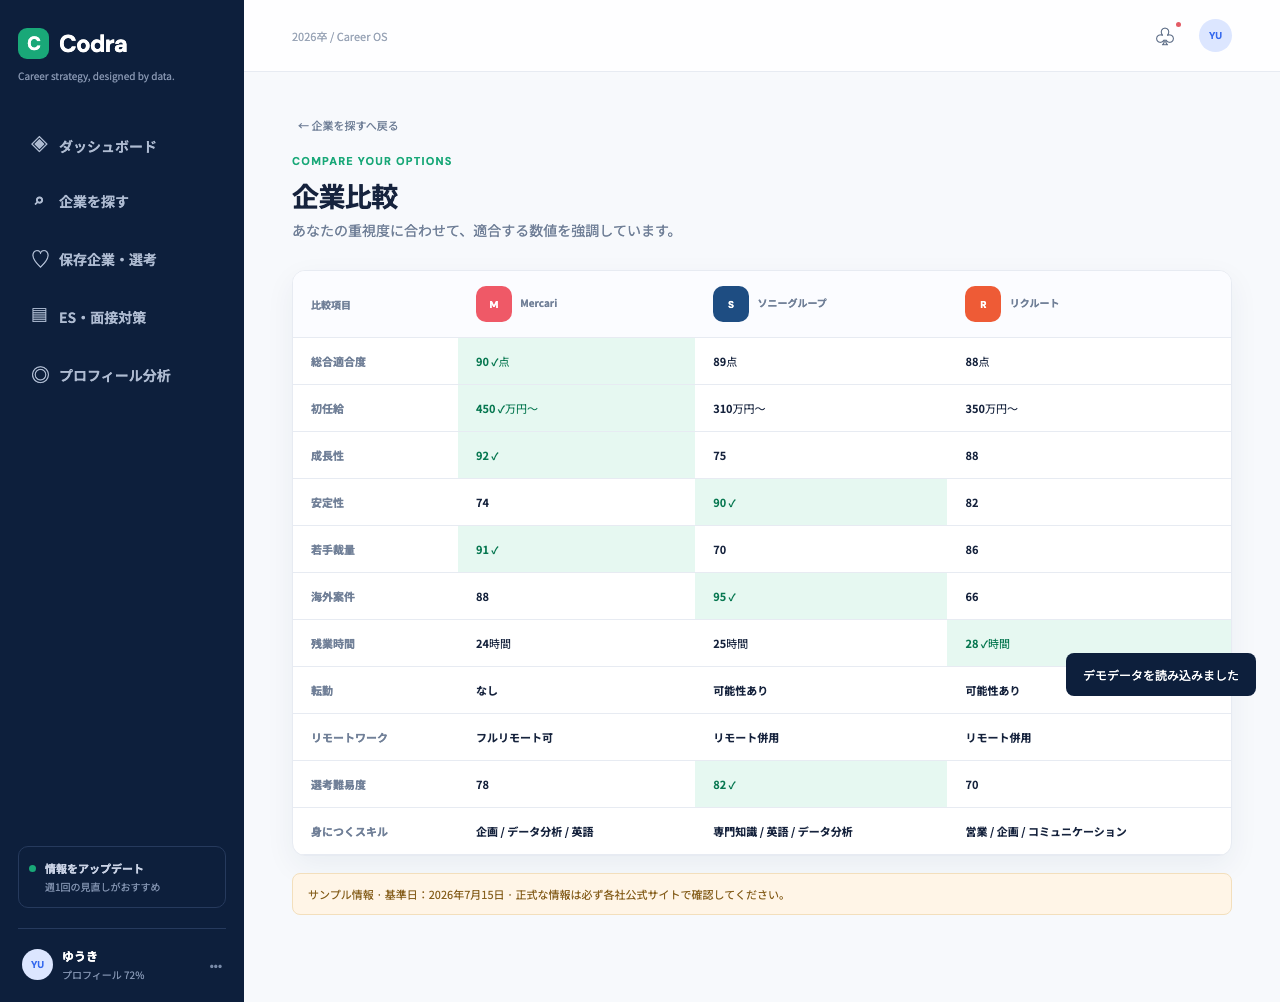
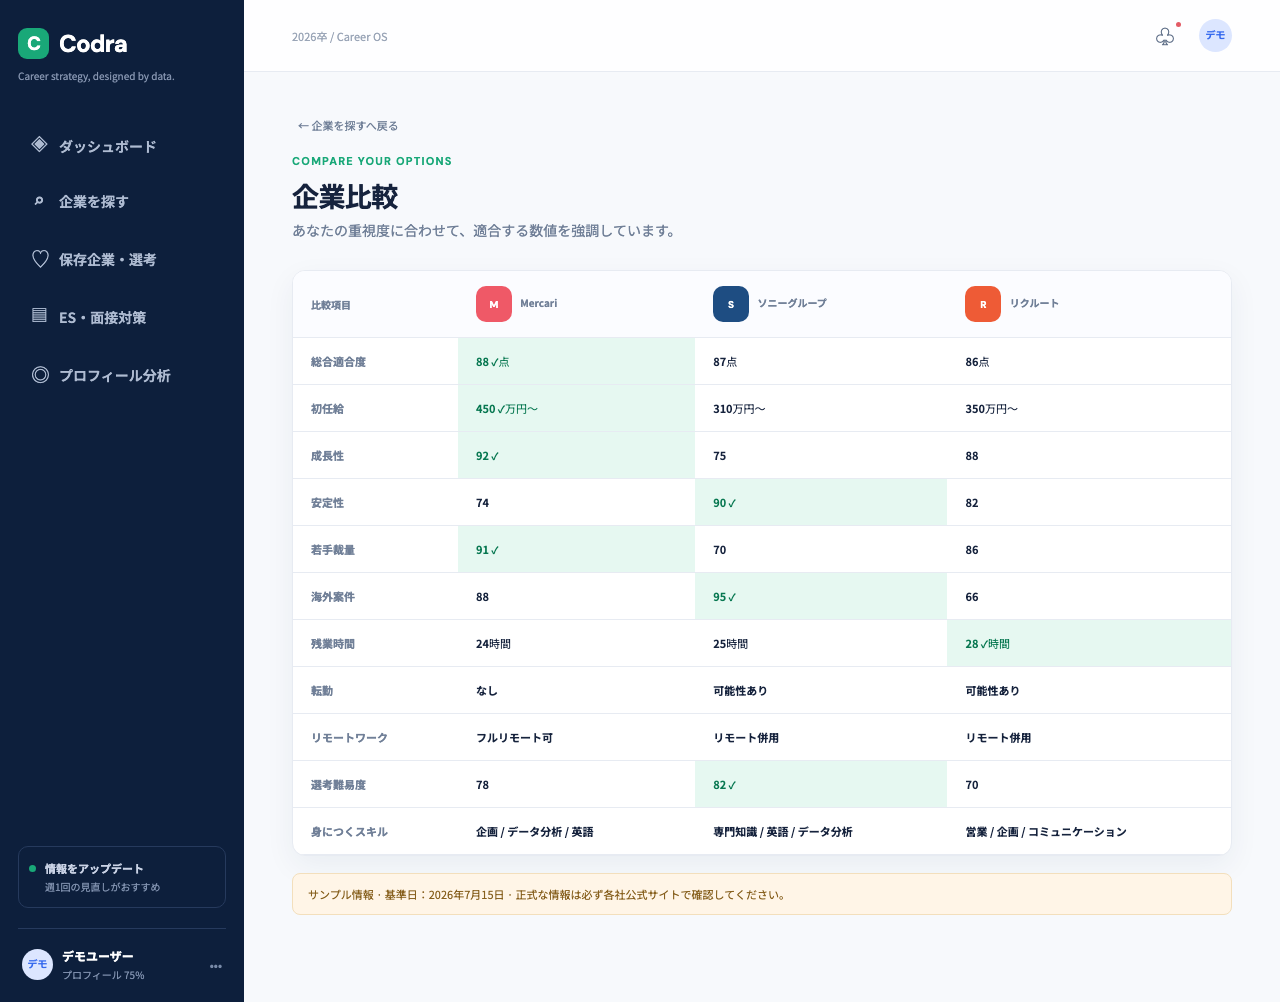
Fix mobile navigation and interactive controls

Changed region(s): [[0.8125, 0.6497, 1.0, 0.7116], [0.0625, 0.9281, 0.0938, 0.9591]]

diff --git a/navigation.js b/navigation.js
@@ -2,37 +2,112 @@
   const sidebar = document.querySelector('#main-sidebar');
   const toggle = document.querySelector('.mobile-menu');
   const overlay = document.querySelector('#sidebar-overlay');
+  const notificationToggle = document.querySelector('.notification-toggle');
+  const notificationPanel = document.querySelector('#notification-panel');
   if (!sidebar || !toggle || !overlay) return;
 
-  const setOpen = open => {
-    sidebar.classList.toggle('open', open);
-    overlay.classList.toggle('open', open);
-    toggle.setAttribute('aria-expanded', String(open));
-    toggle.setAttribute('aria-label', open ? 'メニューを閉じる' : 'メニューを開く');
-    sidebar.setAttribute('aria-hidden', String(!open && window.matchMedia('(max-width: 650px)').matches));
-    overlay.setAttribute('aria-hidden', String(!open));
-    document.body.classList.toggle('menu-open', open);
+  const isMobile = () => window.matchMedia('(max-width: 900px)').matches;
+
+  const setMenuOpen = open => {
+    const next = Boolean(open);
+    sidebar.classList.toggle('open', next);
+    overlay.classList.toggle('open', next);
+    toggle.setAttribute('aria-expanded', String(next));
+    toggle.setAttribute('aria-label', next ? 'メニューを閉じる' : 'メニューを開く');
+    sidebar.setAttribute('aria-hidden', String(isMobile() ? !next : false));
+    overlay.setAttribute('aria-hidden', String(!next));
+    document.body.classList.toggle('menu-open', next);
   };
 
-  // Capture the event before the legacy app.js listener so repeated renders cannot add duplicate toggles.
+  const setNotificationsOpen = open => {
+    if (!notificationToggle || !notificationPanel) return;
+    const next = Boolean(open);
+    notificationPanel.hidden = !next;
+    notificationPanel.classList.toggle('open', next);
+    notificationToggle.setAttribute('aria-expanded', String(next));
+    notificationToggle.setAttribute('aria-label', next ? '通知を閉じる' : '通知を開く');
+  };
+
+  const navigate = view => {
+    if (!view || typeof state === 'undefined' || typeof render !== 'function') return;
+    state.view = view;
+    state.companyId = null;
+    if (view !== 'detail') state.tab = 'overview';
+    render();
+  };
+
+  const updateIdentity = () => {
+    const profile = typeof state !== 'undefined' ? state.profile || {} : {};
+    const name = typeof userName === 'function' ? userName() : String(profile.nickname || profile.name || '').trim() || 'ゲスト';
+    const initials = name === 'ゲスト' ? 'GU' : name.slice(0, 2).toUpperCase();
+    const completionValue = typeof completion === 'function' ? completion() : 0;
+    document.querySelector('#user-display-name')?.replaceChildren(document.createTextNode(name));
+    document.querySelector('#user-profile-completion')?.replaceChildren(document.createTextNode(profile.registered ? `プロフィール ${completionValue}%` : 'プロフィール 未作成'));
+    document.querySelector('#user-mini-avatar')?.replaceChildren(document.createTextNode(initials));
+    document.querySelector('.top-avatar')?.replaceChildren(document.createTextNode(initials));
+  };
+
+  // Keep the stable header control in one place. Capturing prevents legacy
+  // listeners attached during repeated app renders from toggling twice.
   toggle.addEventListener('click', event => {
     event.preventDefault();
     event.stopImmediatePropagation();
-    setOpen(!sidebar.classList.contains('open'));
+    setMenuOpen(!sidebar.classList.contains('open'));
   }, true);
-  overlay.addEventListener('click', () => setOpen(false));
-  sidebar.addEventListener('click', event => {
-    if (event.target.closest('[data-view]')) setOpen(false);
+
+  overlay.addEventListener('click', event => {
+    event.preventDefault();
+    setMenuOpen(false);
   });
-  document.addEventListener('keydown', event => {
-    if (event.key === 'Escape' && sidebar.classList.contains('open')) {
-      setOpen(false);
-      toggle.focus();
+
+  if (notificationToggle) {
+    notificationToggle.addEventListener('click', event => {
+      event.preventDefault();
+      event.stopImmediatePropagation();
+      setNotificationsOpen(notificationPanel.hidden);
+    }, true);
+  }
+
+  // All data-view controls, including those rendered later by app.js, use
+  // the same delegated navigation path and therefore keep working after a
+  // page render.
+  document.addEventListener('click', event => {
+    const control = event.target.closest?.('[data-view]');
+    if (!control || control === toggle) return;
+    if (control.matches('.mobile-menu')) return;
+    event.preventDefault();
+    event.stopImmediatePropagation();
+    navigate(control.dataset.view);
+    if (control.closest('#main-sidebar')) setMenuOpen(false);
+  }, true);
+
+  document.addEventListener('click', event => {
+    if (notificationPanel && !notificationPanel.hidden && !event.target.closest('.notification-panel, .notification-toggle')) {
+      setNotificationsOpen(false);
     }
   });
+
+  document.addEventListener('keydown', event => {
+    if (event.key !== 'Escape') return;
+    if (sidebar.classList.contains('open')) {
+      setMenuOpen(false);
+      toggle.focus();
+    }
+    if (notificationPanel && !notificationPanel.hidden) {
+      setNotificationsOpen(false);
+      notificationToggle?.focus();
+    }
+  });
+
   window.addEventListener('resize', () => {
-    if (!window.matchMedia('(max-width: 650px)').matches) setOpen(false);
+    if (!isMobile()) setMenuOpen(false);
     else sidebar.setAttribute('aria-hidden', String(!sidebar.classList.contains('open')));
   });
-  setOpen(false);
+
+  setMenuOpen(false);
+  setNotificationsOpen(false);
+  updateIdentity();
+  const appRoot = document.querySelector('#app');
+  if (appRoot) new MutationObserver(updateIdentity).observe(appRoot, { childList: true });
+  console.info('[Codra] mobile controls ready', document.querySelector('meta[name="codra-version"]')?.content || 'unknown');
 })();

diff --git a/tests/mobile-controls.spec.js b/tests/mobile-controls.spec.js
@@ -1,0 +1,112 @@
+const { test, expect } = require('@playwright/test');
+
+const viewports = [
+  { name: 'iPhone', width: 390, height: 844 },
+  { name: 'Android', width: 412, height: 915 },
+  { name: 'iPad portrait', width: 768, height: 1024 },
+  { name: 'iPad landscape', width: 1024, height: 768 },
+  { name: 'desktop', width: 1440, height: 900 }
+];
+
+async function openFresh(page, viewport) {
+  await page.setViewportSize(viewport);
+  await page.goto('/');
+  await page.evaluate(() => localStorage.clear());
+  await page.reload();
+  const close = page.locator('.modal-backdrop .modal-close');
+  if (await close.count() && await close.first().isVisible().catch(() => false)) await close.first().click();
+}
+
+test.describe('Codra mobile controls and profile regression', () => {
+  test('menu opens and closes at every supported viewport', async ({ page }) => {
+    for (const viewport of viewports) {
+      await openFresh(page, viewport);
+      const menu = page.getByTestId('mobile-menu');
+      const sidebar = page.locator('#main-sidebar');
+      const overlay = page.getByTestId('sidebar-overlay');
+      if (viewport.width <= 900) {
+        await expect(menu).toBeVisible();
+        await menu.click();
+        await expect(sidebar).toHaveClass(/open/);
+        await expect(menu).toHaveAttribute('aria-expanded', 'true');
+        await expect(overlay).toHaveClass(/open/);
+        await menu.click();
+        await expect(sidebar).not.toHaveClass(/open/);
+        await expect(menu).toHaveAttribute('aria-expanded', 'false');
+        await expect(overlay).not.toHaveClass(/open/);
+        await menu.click();
+        await overlay.click({ position: { x: 350, y: 400 } });
+        await expect(sidebar).not.toHaveClass(/open/);
+        await menu.click();
+        await page.keyboard.press('Escape');
+        await expect(sidebar).not.toHaveClass(/open/);
+      } else {
+        await expect(menu).not.toBeVisible();
+        await expect(sidebar).toBeVisible();
+      }
+    }
+  });
+
+  test('header profile, name persistence, neutral fallback, and notification work', async ({ page }) => {
+    await openFresh(page, { width: 390, height: 844 });
+    await expect(page.locator('body')).not.toContainText('ゆうき');
+
+    const profileButton = page.locator('.top-avatar');
+    await expect(profileButton).toHaveCount(1);
+    await profileButton.click();
+    await expect(page.getByRole('heading', { name: 'プロフィール分析' })).toBeVisible();
+    await page.locator('#edit-profile').click();
+    await page.locator('#profile-form input[name="name"]').fill('操作確認ユーザー');
+    await page.locator('#profile-form').getByRole('button', { name: '次へ' }).click();
+    await page.locator('#profile-form').getByRole('button', { name: '次へ' }).click();
+    await page.getByRole('button', { name: 'あなたに合う企業を探す' }).click();
+    await expect(page.locator('#toast')).toContainText('プロフィールを保存しました');
+    await expect(page.locator('#user-display-name')).toHaveText('操作確認ユーザー');
+
+    await page.reload();
+    await page.locator('.top-avatar').click();
+    await page.locator('#edit-profile').click();
+    await expect(page.locator('#profile-form input[name="name"]')).toHaveValue('操作確認ユーザー');
+    await page.locator('#modal-close').click();
+
+    const notification = page.getByTestId('notification-toggle');
+    const panel = page.locator('#notification-panel');
+    await notification.click();
+    await expect(panel).toBeVisible();
+    await expect(panel).toContainText('新しい通知はありません');
+    await page.keyboard.press('Escape');
+    await expect(panel).toBeHidden();
+    await notification.click();
+    await page.locator('.page-title').click();
+    await expect(panel).toBeHidden();
+    await page.screenshot({ path: 'screenshots/mobile-controls-after.png', fullPage: false });
+  });
+
+  test('profile can be opened from the sidebar after menu closes', async ({ page }) => {
+    await openFresh(page, { width: 768, height: 1024 });
+    const menu = page.getByTestId('mobile-menu');
+    await menu.click();
+    const profileNav = page.getByTestId('profile-nav');
+    await expect(profileNav).toBeVisible();
+    await profileNav.click();
+    await expect(page.locator('#main-sidebar')).not.toHaveClass(/open/);
+    await expect(page.getByRole('heading', { name: 'プロフィール分析' })).toBeVisible();
+  });
+
+  test('major controls have a usable action contract and no page errors', async ({ page }) => {
+    const errors = [];
+    const missing = [];
+    page.on('pageerror', error => errors.push(error.message));
+    page.on('response', response => { if (response.status() === 404) missing.push(response.url()); });
+    await openFresh(page, { width: 390, height: 844 });
+    const inventory = await page.locator('button, a, input, select, textarea, [role="button"], [tabindex]').evaluateAll(nodes => nodes.map(node => ({
+      tag: node.tagName,
+      text: (node.innerText || node.getAttribute('aria-label') || node.getAttribute('placeholder') || '').trim().slice(0, 80),
+      disabled: node.disabled === true,
+      href: node.getAttribute('href') || ''
+    })).filter(item => item.text || item.href || item.disabled));
+    expect(inventory.length).toBeGreaterThan(20);
+    expect(errors).toEqual([]);
+    expect(missing).toEqual([]);
+  });
+});

diff --git a/index.html b/index.html
@@ -4,6 +4,7 @@
   <meta charset="UTF-8" />
   <meta name="viewport" content="width=device-width, initial-scale=1.0" />
   <meta name="theme-color" content="#0d1f3c" />
+  <meta name="codra-version" content="0.2.0-mobile-controls" />
   <title>Codra — Career Strategy Platform</title>
   <link rel="preconnect" href="https://fonts.googleapis.com">
   <link rel="preconnect" href="https://fonts.gstatic.com" crossorigin>
@@ -31,19 +32,19 @@
       </nav>
       <div class="sidebar-bottom">
         <div class="sidebar-note"><span class="status-dot"></span><div><strong>情報をアップデート</strong><small>週1回の見直しがおすすめ</small></div></div>
-        <div class="user-mini"><span class="avatar">YU</span><div><strong>ゆうき</strong><small>プロフィール 72%</small></div><span>•••</span></div>
+        <button class="user-mini" data-view="profile" aria-label="プロフィールを開く" type="button"><span class="avatar" id="user-mini-avatar">GU</span><div><strong id="user-display-name">ゲスト</strong><small id="user-profile-completion">プロフィール 未作成</small></div><span aria-hidden="true">•••</span></button>
       </div>
     </aside>
     <main class="main-content">
-      <header class="topbar"><button class="mobile-menu" data-testid="mobile-menu" aria-label="メニューを開く" aria-expanded="false" aria-controls="main-sidebar">☰</button><div class="breadcrumb">2026卒 / Career OS</div><div class="top-actions"><button class="icon-btn" aria-label="通知">♧<i></i></button><button class="avatar top-avatar" data-view="profile" aria-label="プロフィールを開く">YU</button></div></header>
+      <header class="topbar"><button class="mobile-menu" data-testid="mobile-menu" aria-label="メニューを開く" aria-expanded="false" aria-controls="main-sidebar" type="button">☰</button><div class="breadcrumb">2026卒 / Career OS</div><div class="top-actions"><button class="icon-btn notification-toggle" data-testid="notification-toggle" aria-label="通知を開く" aria-expanded="false" aria-controls="notification-panel" type="button">♧<i></i></button><div id="notification-panel" class="notification-panel" role="dialog" aria-labelledby="notification-title" hidden><strong id="notification-title">通知</strong><p>新しい通知はありません</p></div><button class="avatar top-avatar" data-view="profile" aria-label="プロフィールを開く" type="button">GU</button></div></header>
       <div id="app" class="page-wrap"></div>
     </main>
   </div>
   <div class="sidebar-overlay" id="sidebar-overlay" data-testid="sidebar-overlay" aria-hidden="true"></div>
   <div id="toast" class="toast" role="status"></div>
-  <script src="app.js"></script>
-  <script src="recruitment.js"></script>
-  <script src="navigation.js"></script>
-  <script src="runtime-hooks.js"></script>
+  <script src="app.js?v=20260716-mobile2"></script>
+  <script src="recruitment.js?v=20260716-mobile2"></script>
+  <script src="navigation.js?v=20260716-mobile2"></script>
+  <script src="runtime-hooks.js?v=20260716-mobile2"></script>
 </body>
 </html>

diff --git a/recruitment.css b/recruitment.css
@@ -1,2 +1,8 @@
 .recruitment-summary{display:grid;gap:13px}.recruitment-header{display:flex;align-items:center;justify-content:space-between;gap:12px}.recruitment-badge{font-size:10px}.recruitment-badge.open{background:var(--green-soft);color:#087851}.recruitment-badge.closed{background:#f1f3f6;color:#6f7d91}.recruitment-badge.checking{background:var(--amber-soft);color:#9b671f}.recruitment-badge.preopen{background:var(--blue-soft);color:#4167cd}.deadline-warning{color:var(--red);font-weight:700}.deadline-normal{color:var(--muted)}.recruitment-meta{display:grid;grid-template-columns:repeat(2,1fr);gap:8px}.recruitment-meta div{background:#f8faff;border:1px solid var(--line);border-radius:8px;padding:9px}.recruitment-meta small,.recruitment-meta strong{display:block}.recruitment-meta small{font-size:10px;color:var(--muted)}.recruitment-meta strong{font-size:12px;margin-top:4px}.recruitment-stages{display:flex;flex-wrap:wrap;gap:6px;margin-top:2px}.recruitment-links{display:flex;flex-wrap:wrap;gap:8px}.recruitment-links a,.recruitment-links button{font-size:11px}.recruitment-source{border-top:1px solid var(--line);padding-top:12px;color:var(--muted);font-size:10px;line-height:1.6}.recruitment-actions{display:flex;gap:7px;flex-wrap:wrap;margin-top:14px}.company-card .recruitment-mini{margin-top:14px;padding-top:12px;border-top:1px solid var(--line)}.recruitment-mini-row{display:flex;align-items:center;justify-content:space-between;gap:8px;font-size:10px}.recruitment-mini-row+.recruitment-mini-row{margin-top:7px}.recruitment-mini-row span:last-child{font-weight:700}.recruitment-empty{padding:22px 0;color:var(--muted);font-size:11px}.selection-list{display:grid;gap:9px}.selection-row{display:flex;align-items:start;justify-content:space-between;gap:12px;border:1px solid var(--line);border-radius:9px;padding:12px}.selection-row strong{font-size:12px}.selection-row small{display:block;color:var(--muted);font-size:10px;margin-top:4px}.sidebar-overlay{display:none}.menu-open{overflow:hidden}@media(max-width:650px){.sidebar-overlay{display:block;position:fixed;inset:0;background:rgba(13,31,60,.35);opacity:0;pointer-events:none;transition:.2s;z-index:3}.sidebar-overlay.open{opacity:1;pointer-events:auto}.recruitment-meta{grid-template-columns:1fr}.recruitment-actions{display:grid;grid-template-columns:1fr}.recruitment-actions a,.recruitment-actions button{width:100%;min-height:42px}.selection-row{display:block}.selection-row .tag{margin-top:9px}}
 .mobile-menu{position:relative;z-index:6}@media(max-width:650px){.topbar{position:relative;z-index:5}}
+.user-mini{width:100%;text-align:left;background:transparent;cursor:pointer}
+.notification-panel{position:absolute;right:0;top:48px;width:260px;padding:16px;background:#fff;border:1px solid var(--line);border-radius:12px;box-shadow:0 14px 34px rgba(20,43,88,.16);z-index:8}
+.notification-panel strong{display:block;font-size:12px}
+.notification-panel p{margin:10px 0 0;color:var(--muted);font-size:11px}
+@media(max-width:900px){.sidebar{position:fixed;z-index:4;left:-250px;top:0;bottom:0;transition:.2s}.sidebar.open{left:0}.topbar{position:relative;z-index:5}.mobile-menu{display:block;font-size:20px}.sidebar-overlay{display:block;position:fixed;inset:0;background:rgba(13,31,60,.35);opacity:0;pointer-events:none;transition:.2s;z-index:3}.sidebar-overlay.open{opacity:1;pointer-events:auto}}
+@media(max-width:650px){.notification-panel{position:fixed;top:68px;left:12px;right:12px;width:auto}.top-actions{position:relative}.user-mini{min-height:46px}}

diff --git a/playwright.config.js b/playwright.config.js
@@ -8,13 +8,13 @@ module.exports = defineConfig({
   fullyParallel: false,
   reporter: process.env.CI ? [['line'], ['html', { open: 'never' }]] : 'list',
   use: {
-    baseURL: 'http://127.0.0.1:4173',
+    baseURL: process.env.CODRA_BASE_URL || 'http://127.0.0.1:4173',
     trace: 'retain-on-failure',
     screenshot: 'only-on-failure',
     video: 'retain-on-failure',
     ...devices['Desktop Chrome']
   },
-  webServer: {
+  webServer: process.env.CODRA_BASE_URL ? undefined : {
     command: 'python3 -m http.server 4173',
     url: 'http://127.0.0.1:4173',
     reuseExistingServer: true,

diff --git a/recruitment.js b/recruitment.js
@@ -55,7 +55,7 @@
     const appTasks = state.apps.map((a,i) => { const c = company(a.company); return c ? `<div class="task ${state.doneTasks.has(i)?'done':''}"><button class="task-check" data-task="${i}">${state.doneTasks.has(i)?'✓':''}</button><div><div class="task-title">${escapeHtml(a.next)}</div><div class="task-sub">${escapeHtml(c.name)} · あなたの選考 · 締切 ${escapeHtml(a.deadline || '未設定')}</div></div><span class="task-priority">優先度 ${escapeHtml(a.priority || '中')}</span></div>` : ''; }).join('');
     const recruitmentTasks = recruitList.slice(0,3).map(c => { const r = normalizedRecruitment(c); return `<div class="task"><span class="task-check" aria-hidden="true">!</span><div><div class="task-title">${escapeHtml(c.name)}の${escapeHtml(r.category)}に応募準備</div><div class="task-sub">企業募集 · 次回締切 ${escapeHtml(deadlineText(r.nextDeadline))}</div></div><span class="task-priority ${deadlineClass(r.nextDeadline)}">企業募集中</span></div>`; }).join('');
     const deadlineRows = recruitList.slice(0,4).map(c => { const r = normalizedRecruitment(c); return `<div class="deadline"><div><div class="deadline-title">${escapeHtml(c.name)}</div><div class="deadline-company">企業募集：${escapeHtml(r.category)} ${recruitmentBadge(c)}</div></div><div class="date ${daysUntil(r.nextDeadline) <= 7 ? '' : 'normal'}">${escapeHtml(r.nextDeadline.slice(5).replace('-','/'))}<small> 締切</small></div></div>`; }).join('');
-    layout(`<section class="hero"><div><div class="eyebrow">Your career strategy</div><h1>${first?'Codraを始めましょう。':'こんにちは、ゆうきさん。'}</h1><p>${first?'プロフィールを登録すると、あなた向けの企業と準備方法を提案できます。':'今日も、自分らしいキャリアを一歩ずつ設計しましょう。'}</p></div><div class="hero-side"><div><div class="stat-label">プロフィール完成度</div><div class="stat-value">${pc}<small>%</small></div></div><div class="progress-ring" style="background:conic-gradient(var(--green) ${pc}%,#e8edf3 0)"><span>${pc}%</span></div></div></section>${first?emptyStart():''}${readinessHtml()}<div class="notice source-notice">企業情報・選考情報はサンプルです。応募や面接準備の前に、必ず企業公式サイトで最新情報を確認してください。</div><div class="grid grid-4"><div class="card stat-card"><div class="stat-label">就活進捗率</div><div class="stat-value">38<small>%</small></div><div class="stat-foot">↑ 先週より 8%</div></div><div class="card stat-card"><div class="stat-label">保存した企業</div><div class="stat-value">${state.saved.size}<small> 社</small></div><div class="stat-foot">${state.saved.size?'自分のデータ':'まず企業を保存しましょう'}</div></div><div class="card stat-card"><div class="stat-label">選考中の企業</div><div class="stat-value">${state.apps.length}<small> 社</small></div><div class="stat-foot">${state.apps.length?'次のアクションがあります':'応募後に登録できます'}</div></div><div class="card stat-card"><div class="stat-label">ES・面接対策</div><div class="stat-value">${state.esDocs.length+userCounts().answers}<small> 件</small></div><div class="stat-foot">自分のデータ</div></div></div><div class="grid grid-2"><div><div class="section-head"><div><h2>今日やるべきこと</h2><p>あなたの選考状況と企業募集の締切を分けて表示</p></div><button class="link-btn" data-view="saved">すべて見る</button></div><div class="card">${appTasks}${recruitmentTasks || '<div class="empty compact-empty"><strong>企業募集の締切はありません</strong>企業を探す画面で最新の募集情報を確認できます。</div>'}</div></div><div><div class="section-head"><div><h2>締切が近い企業</h2><p>7日以内の締切は注意表示</p></div><button class="link-btn" data-view="saved">選考管理</button></div><div class="card">${deadlineRows || '<div class="empty compact-empty"><strong>締切情報はありません</strong>情報確認中の企業は公式サイトで確認してください。</div>'}</div></div></div><div class="section-head"><div><h2>あなた向けおすすめ企業</h2><p>${first?'プロフィール作成後にあなた向けへ更新されます':'プロフィールと重視度から再計算した現時点の仮説'}</p></div><div class="section-actions"><button class="secondary-btn" id="recalculate">↻ 再計算する</button><button class="link-btn" data-view="discover">企業を探す →</button></div></div><div class="grid grid-3">${list.slice(0,3).map(codraRecruitmentCard).join('')}</div></div>`);
+    layout(`<section class="hero"><div><div class="eyebrow">Your career strategy</div><h1>${first?'Codraを始めましょう。':`こんにちは、${userName()}さん。`}</h1><p>${first?'プロフィールを登録すると、あなた向けの企業と準備方法を提案できます。':'今日も、自分らしいキャリアを一歩ずつ設計しましょう。'}</p></div><div class="hero-side"><div><div class="stat-label">プロフィール完成度</div><div class="stat-value">${pc}<small>%</small></div></div><div class="progress-ring" style="background:conic-gradient(var(--green) ${pc}%,#e8edf3 0)"><span>${pc}%</span></div></div></section>${first?emptyStart():''}${readinessHtml()}<div class="notice source-notice">企業情報・選考情報はサンプルです。応募や面接準備の前に、必ず企業公式サイトで最新情報を確認してください。</div><div class="grid grid-4"><div class="card stat-card"><div class="stat-label">就活進捗率</div><div class="stat-value">38<small>%</small></div><div class="stat-foot">↑ 先週より 8%</div></div><div class="card stat-card"><div class="stat-label">保存した企業</div><div class="stat-value">${state.saved.size}<small> 社</small></div><div class="stat-foot">${state.saved.size?'自分のデータ':'まず企業を保存しましょう'}</div></div><div class="card stat-card"><div class="stat-label">選考中の企業</div><div class="stat-value">${state.apps.length}<small> 社</small></div><div class="stat-foot">${state.apps.length?'次のアクションがあります':'応募後に登録できます'}</div></div><div class="card stat-card"><div class="stat-label">ES・面接対策</div><div class="stat-value">${state.esDocs.length+userCounts().answers}<small> 件</small></div><div class="stat-foot">自分のデータ</div></div></div><div class="grid grid-2"><div><div class="section-head"><div><h2>今日やるべきこと</h2><p>あなたの選考状況と企業募集の締切を分けて表示</p></div><button class="link-btn" data-view="saved">すべて見る</button></div><div class="card">${appTasks}${recruitmentTasks || '<div class="empty compact-empty"><strong>企業募集の締切はありません</strong>企業を探す画面で最新の募集情報を確認できます。</div>'}</div></div><div><div class="section-head"><div><h2>締切が近い企業</h2><p>7日以内の締切は注意表示</p></div><button class="link-btn" data-view="saved">選考管理</button></div><div class="card">${deadlineRows || '<div class="empty compact-empty"><strong>締切情報はありません</strong>情報確認中の企業は公式サイトで確認してください。</div>'}</div></div></div><div class="section-head"><div><h2>あなた向けおすすめ企業</h2><p>${first?'プロフィール作成後にあなた向けへ更新されます':'プロフィールと重視度から再計算した現時点の仮説'}</p></div><div class="section-actions"><button class="secondary-btn" id="recalculate">↻ 再計算する</button><button class="link-btn" data-view="discover">企業を探す →</button></div></div><div class="grid grid-3">${list.slice(0,3).map(codraRecruitmentCard).join('')}</div></div>`);
     if (first) app.insertAdjacentHTML('afterbegin', '<div class="welcome-card"><div class="eyebrow">Welcome to Codra</div><h2>あなたの就活軸から、狙う企業と準備タスクを整理します。</h2><div class="value-points"><span><b>01</b>自分に合う企業が分かる</span><span><b>02</b>選考準備の抜け漏れが減る</span><span><b>03</b>ESと面接の改善点が分かる</span></div><div class="section-actions"><button class="primary-btn" data-start-onboarding>プロフィールを作成する</button><button class="secondary-btn" id="start-demo">デモを始める</button></div></div>');
     const guide = typeof demoGuide === 'function' ? demoGuide() : '';
     if (guide) app.insertAdjacentHTML('afterbegin', guide);

diff --git a/tests/codra.spec.js b/tests/codra.spec.js
@@ -2,7 +2,7 @@ const { test, expect } = require('@playwright/test');
 
 async function openFresh(page) {
   await page.goto('/');
-  await page.waitForLoadState('networkidle');
+  await expect(page.locator('#app')).toBeVisible();
   const close = page.locator('.modal-backdrop .modal-close').first();
   if (await close.isVisible().catch(() => false)) await close.click();
 }

diff --git a/README.md b/README.md
@@ -130,6 +130,7 @@ npx playwright test
 - E：面接回答メモ保存と `codra_interview_answers` 保存
 - F：データ管理、エクスポート、Supabase移行プレビュー
 - G：確認モーダル付きデモデータ削除
+- モバイル操作：390 / 412 / 768 / 1024 / 1440pxでメニュー、プロフィール、通知、オーバーレイを確認
 
 初回セットアップからの実行例：
 
@@ -146,6 +147,14 @@ npm run screenshots
 ```
 
 失敗時は、ポート4173の競合、Chromiumのインストール、localStorageの状態、確認モーダルの表示を確認してください。失敗時のスクリーンショット、trace、videoはPlaywrightの設定により保持されます。
+
+公開URLを同じテストで確認する場合は、ローカルサーバーを起動せずに次を実行します。
+
+```bash
+CODRA_BASE_URL=https://akira-motoyoshi.github.io/Codra/ npx playwright test tests/mobile-controls.spec.js
+```
+
+モバイルメニューはスマートフォンとiPad縦幅では開閉ボタン、オーバーレイ、Escape、項目選択で閉じられます。iPad横幅とデスクトップでは既存のサイドナビゲーションを表示します。通知はヘッダーから開き、外側クリックまたはEscapeで閉じます。
 
 ## データ保存
 
@@ -231,6 +240,7 @@ Codra/
 ├── playwright.config.js    # E2E設定とHTTPサーバー
 ├── tests/codra.spec.js     # 主要導線のE2E
 ├── tests/recruitment.spec.js # プロフィール、メニュー、募集情報E2E
+├── tests/mobile-controls.spec.js # モバイル、プロフィール、通知、エラー監視E2E
 ├── tests/screenshots.spec.js # README用スクリーンショット生成
 ├── screenshots/            # README用画面例
 ├── RELEASE_CHECKLIST.md    # 配布前チェックリスト